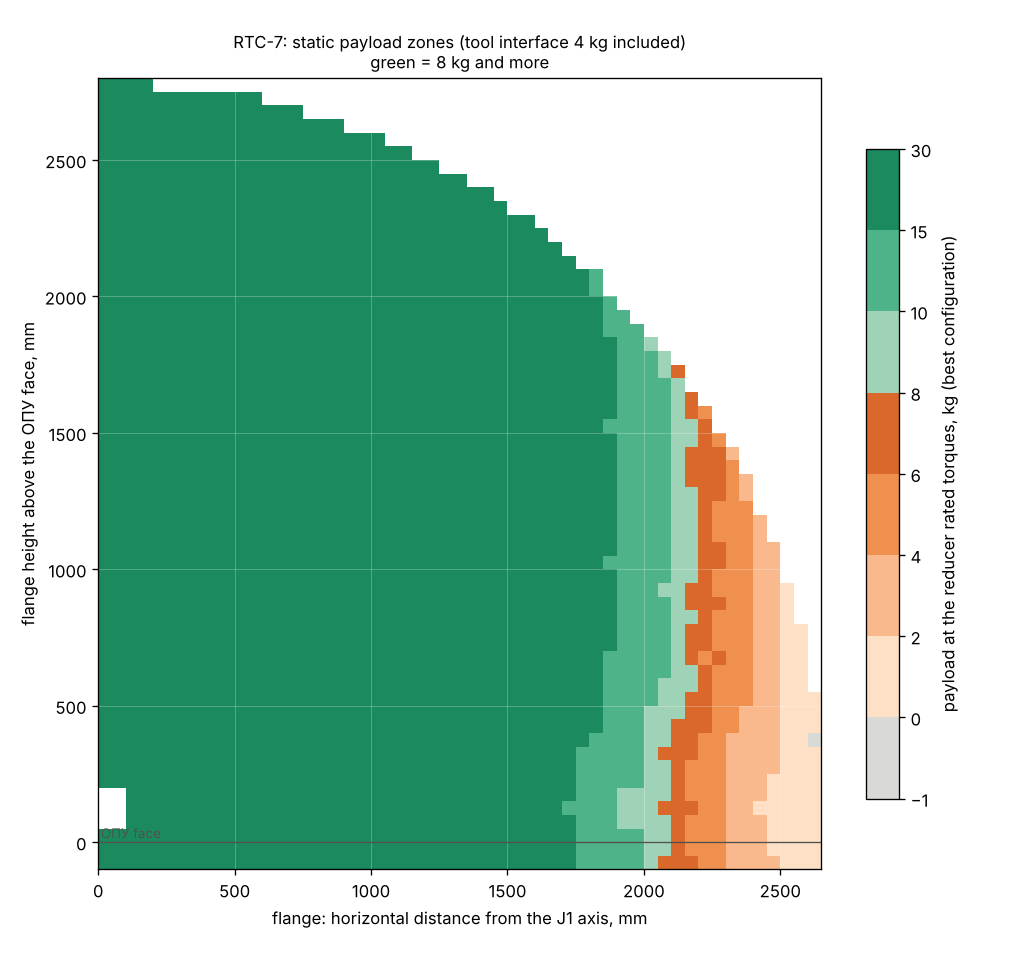
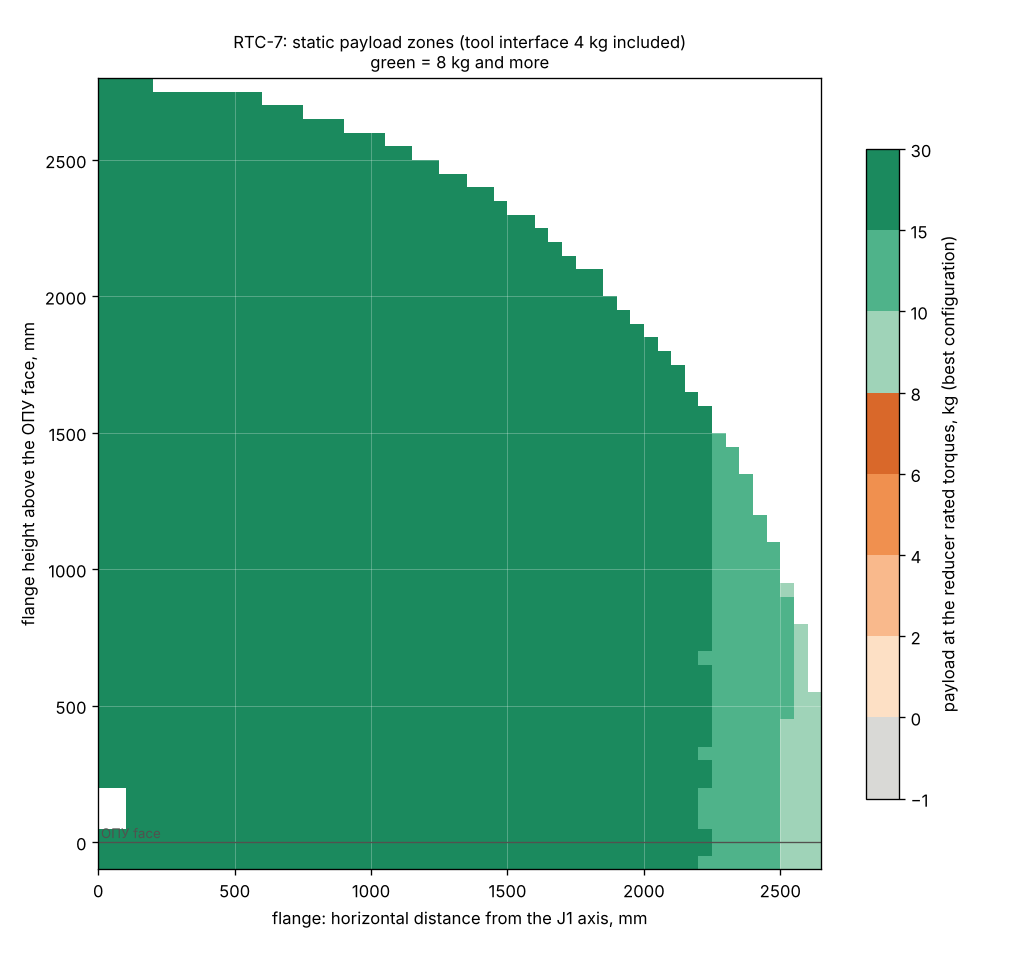
Statics and payload zones with the 80E working torque 1000 N*m
Claude-Session: https://claude.ai/code/session_01T1NEmM8t24YJBEFNnKwD2z

Changed region(s): [[0.5471, 0.2812, 0.8206, 0.9062]]

diff --git a/robot/RTC-7-statics.md b/robot/RTC-7-statics.md
@@ -36,17 +36,17 @@ Tool-change interface 4 kg always on the flange (COM 30 mm out); payload COM 100
 
 ## Worst static torques
 
-| Joint | Drive | Self-weight, N·m | Per 1 kg payload, N·m/kg | With 8 kg, N·m | Reducer rated / start-stop, N·m | Payload at rated torque, kg | Ratio needed (motor rated) |
+| Joint | Drive | Self-weight, N·m | Per 1 kg payload, N·m/kg | With 8 kg, N·m | Reducer rated (T_design if set) / start-stop, N·m | Payload at rated torque, kg | Ratio needed (motor rated) |
 |---|---|---|---|---|---|---|---|
 | J1 | SHM-150m | 0 | 0.0 | 0 | 103 / 155 | - | - |
-| J2 | SHM-1000 | 803 | 27.3 | 1009 | 784 / 1960 | -0.7 | 140 -> 153 (n_out 3 rpm) |
+| J2 | SHM-1000 | 803 | 27.3 | 1009 | 1000 / 1960 | 7.2 | 140 -> 153 (n_out 3 rpm) |
 | J3 | SHM-500 | 234 | 14.3 | 349 | 375 / 675 | 9.9 | 79 -> 99 (n_out 14 rpm) |
 | J4 | SHM-500 | 202 | 14.0 | 312 | 375 / 675 | 12.3 | 71 -> 79 (n_out 18 rpm) |
 | J5 | SHM-150 | 28 | 3.0 | 54 | 103 / 155 | 24.6 | 46 -> 49 (n_out 50 rpm) |
 | J6 | SHM-150 | 13 | 2.6 | 33 | 103 / 155 | 35.3 | 28 -> 29 (n_out 84 rpm) |
 | J7 | SHM-60 | 0 | 0.0 | 0 | 62 / 93 | - | - |
 
-Static payload limit at the reducer rated torque: **-0.7 kg**, set by J2.
+Static payload limit at the reducer rated torque: **7.2 kg**, set by J2.
 J1 axis is vertical: no gravity torque, it carries only the inertia (and the ОПУ takes the tilting moment).
 Dynamic loads (accelerations) come on top; start-stop torque is the catalog limit for them.
 
@@ -61,6 +61,6 @@ Worst poses (deg, J1..J7):
 
 ## Payload zones (static, rated torques; poses in the arm plane, best configuration)
 
-- reach with 8 kg: flange up to 2166 mm from the J1 axis
-- full reach (any payload >= 0): 2614 mm
+- reach with 8 kg: flange up to 2621 mm from the J1 axis
+- full reach (any payload >= 0): 2641 mm
 - map: `robot/RTC-7-payload-zones.png`
